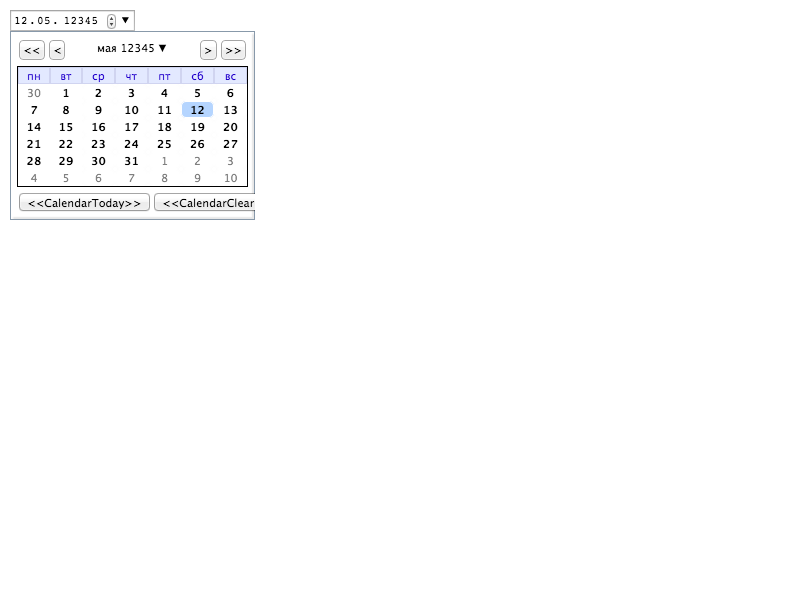
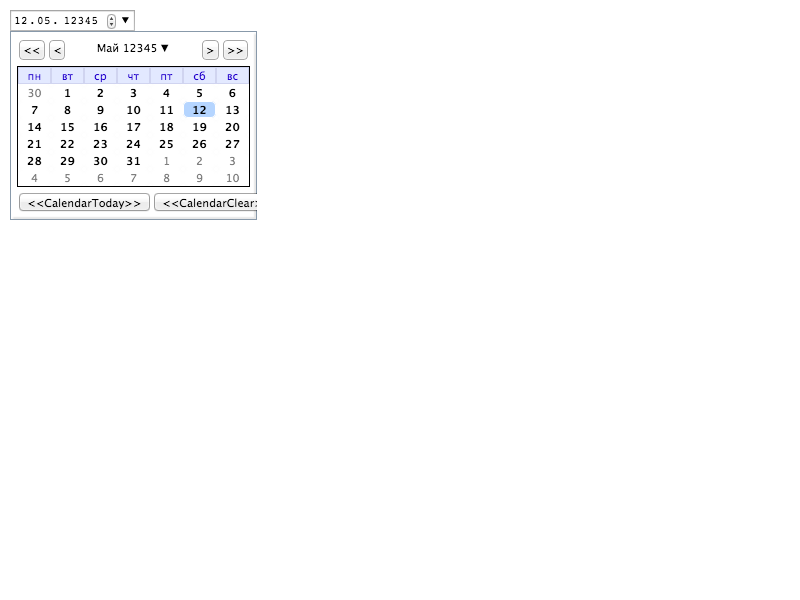
Support stand-alone month names in calendar picker https://bugs.webkit.org/show_bug.cgi?id=102196
Reviewed by Kentaro Hara.

.:

* ManualTests/forms/calendar-picker.html:
- Remove monthLabels arguments.
- Add a mock implementation of pagePopupController.formatMonth.

Source/WebCore:

We have showed non stand-alone month names in any locales. However
we should show stand-alone month names in some locales such as
Russian.

This patch introduce PagePopupController::formatMonth. It is
exposed to page-popups, and format year-month pairs in the same
way as input[type=month].

No new tests. Affects platform/chromium/fast/forms/calendar-picker/calendar-picker-appearance-ru.html.

* Resources/pagepopups/calendarPicker.js:
(Month.prototype.toLocaleString):
Calls pagePopupController.formatMonth except Japanese locale.
(handleArgumentsTimeout):
Remove unnecessary default monthLabels.
* page/PagePopupController.cpp:
(WebCore::PagePopupController::formatMonth): Added.
* page/PagePopupController.h:
(PagePopupController): Declare formatMonth.
* page/PagePopupController.idl: Add formatMonth.

Source/WebKit/chromium:

* src/DateTimeChooserImpl.cpp:
(WebKit::DateTimeChooserImpl::writeDocument):
We don't need to pass monthLabels any more.

LayoutTests:

Update a pixel result for Russian calendar picker. Now it contains
a stand-alone month name.

* platform/chromium-mac/platform/chromium/fast/forms/calendar-picker/calendar-picker-appearance-ru-expected.png:

git-svn-id: https://svn.webkit.org/repository/webkit/trunk@134753 268f45cc-cd09-0410-ab3c-d52691b4dbfc

diff --git a/ManualTests/forms/calendar-picker.html b/ManualTests/forms/calendar-picker.html
@@ -40,8 +40,6 @@ iframe {
 <script>
 var englishArguments = {
     locale: 'en-US',
-    monthLabels : ['January', 'February', 'March', 'April', 'May', 'June',
-    'July', 'August', 'September', 'October', 'November', 'December'],
     dayLabels : ['Sun', 'Mon', 'Tue', 'Wed', 'Thu', 'Fri', 'Sat'],
     todayLabel : 'Today',
     clearLabel : 'Clear',
@@ -53,8 +51,6 @@ var englishArguments = {
 };
 var japaneseArguments = {
     locale: 'ja-JP',
-    monthLabels : ['1月', '2月', '3月', '4月', '5月', '6月',
-    '7月', '8月', '9月', '10月', '11月', '12月'],
     dayLabels : ['日', '月', '火', '水', '木', '金', '土'],
     todayLabel : '今日',
     clearLabel : 'クリア',
@@ -68,8 +64,6 @@ var arabicArguments = {
     locale: 'ar',
     isRTL: false,
     isCalendarRTL: true,
-    monthLabels : ['يناير', 'فبراير', 'مارس', 'أبريل', 'مايو', 'يونيو',
-                   'يوليو', 'أغسطس', 'سبتمبر', 'أكتوبر', 'نوفمبر', 'ديسمبر'],
     dayLabels : ['ح', 'ن', 'ث', 'ر', 'خ', 'ج', 'س'],
     todayLabel : 'اليوم',
     clearLabel : 'مسح',
@@ -80,8 +74,6 @@ var arabicArguments = {
 };
 var datalistArguments = {
     locale: 'en-US',
-    monthLabels : ['January', 'February', 'March', 'April', 'May', 'June',
-    'July', 'August', 'September', 'October', 'November', 'December'],
     dayLabels : ['Sun', 'Mon', 'Tue', 'Wed', 'Thu', 'Fri', 'Sat'],
     todayLabel : 'Today',
     clearLabel : 'Clear',
@@ -101,8 +93,6 @@ var datalistArguments = {
 };
 var longDatalistArguments = {
     locale: 'en-US',
-    monthLabels : ['January', 'February', 'March', 'April', 'May', 'June',
-    'July', 'August', 'September', 'October', 'November', 'December'],
     dayLabels : ['Sun', 'Mon', 'Tue', 'Wed', 'Thu', 'Fri', 'Sat'],
     todayLabel : 'Today',
     clearLabel : 'Clear',
@@ -162,8 +152,6 @@ var arabicDatalistArguments = {
     locale: 'ar',
     isRTL: true,
     isCalendarRTL: true,
-    monthLabels : ['يناير', 'فبراير', 'مارس', 'أبريل', 'مايو', 'يونيو',
-                   'يوليو', 'أغسطس', 'سبتمبر', 'أكتوبر', 'نوفمبر', 'ديسمبر'],
     dayLabels : ['ح', 'ن', 'ث', 'ر', 'خ', 'ج', 'س'],
     todayLabel : 'اليوم',
     clearLabel : 'مسح',
@@ -185,8 +173,6 @@ var arabicLongDatalistArguments = {
     locale: 'ar',
     isRTL: true,
     isCalendarRTL: true,
-    monthLabels : ['يناير', 'فبراير', 'مارس', 'أبريل', 'مايو', 'يونيو',
-                   'يوليو', 'أغسطس', 'سبتمبر', 'أكتوبر', 'نوفمبر', 'ديسمبر'],
     dayLabels : ['ح', 'ن', 'ث', 'ر', 'خ', 'ج', 'س'],
     todayLabel : 'اليوم',
     clearLabel : 'مسح',
@@ -242,8 +228,6 @@ var arabicLongDatalistArguments = {
 };
 var weekArguments = {
     locale: 'en-US',
-    monthLabels : ['January', 'February', 'March', 'April', 'May', 'June',
-    'July', 'August', 'September', 'October', 'November', 'December'],
     dayLabels : ['Sun', 'Mon', 'Tue', 'Wed', 'Thu', 'Fri', 'Sat'],
     todayLabel : 'This Week',
     clearLabel : 'Clear',
@@ -258,8 +242,6 @@ var weekArguments = {
 };
 var monthArguments = {
     locale: 'en-US',
-    monthLabels : ['January', 'February', 'March', 'April', 'May', 'June',
-    'July', 'August', 'September', 'October', 'November', 'December'],
     dayLabels : ['Sun', 'Mon', 'Tue', 'Wed', 'Thu', 'Fri', 'Sat'],
     todayLabel : 'This Month',
     clearLabel : 'Clear',
@@ -308,6 +290,11 @@ function openCalendar(args) {
             if (typeof numString == "number")
                 return numString.toLocaleString();
             return numString.toString();
+        },
+        formatMonth: function(year, zeroBaseMonth) {
+            var monthLabels = ['<January>', '<February>', '<March>', '<April>', '<May>', '<June>',
+                               '<July>', '<August>', '<September>', '<October>', '<November>', '<December>'];
+            return monthLabels[zeroBaseMonth] + " " + year;
         }
     }
 

diff --git a/Source/WebCore/Resources/pagepopups/calendarPicker.js b/Source/WebCore/Resources/pagepopups/calendarPicker.js
@@ -149,34 +149,9 @@ function formatJapaneseImperialEra(year, month) {
 Month.prototype.toLocaleString = function() {
     if (isNaN(this.year) || isNaN(this.year))
         return "Invalid Month";
-    var yearString = localizeNumber(this.year);
-    var monthString = global.params.monthLabels[this.month];
-    switch (getLanguage()) {
-    case "eu":
-    case "fil":
-    case "lt":
-    case "ml":
-    case "mt":
-    case "tl":
-    case "ur":
-        return yearString + " " + monthString;
-    case "hu":
-        return yearString + ". " + monthString;
-    case "ja":
-        return yearString + "年" + formatJapaneseImperialEra(this.year, this.month) + " " + monthString;
-    case "zh":
-        return yearString + "年" + monthString;
-    case "ko":
-        return yearString + "년 " + monthString;
-    case "lv":
-        return yearString + ". g. " + monthString;
-    case "pt":
-        return monthString + " de " + yearString;
-    case "sr":
-        return monthString + ". " + yearString;
-    default:
-        return monthString + " " + yearString;
-    }
+    if (getLanguage() == "ja")
+        return "" + this.year + "年" + formatJapaneseImperialEra(this.year, this.month) + " " + (this.month + 1) + "月";
+    return window.pagePopupController.formatMonth(this.year, this.month);
 };
 
 function createUTCDate(year, month, date) {
@@ -605,8 +580,6 @@ function handleArgumentsTimeout() {
     if (global.argumentsReceived)
         return;
     var args = {
-        monthLabels : ["m1", "m2", "m3", "m4", "m5", "m6",
-                       "m7", "m8", "m9", "m10", "m11", "m12"],
         dayLabels : ["d1", "d2", "d3", "d4", "d5", "d6", "d7"],
         todayLabel : "Today",
         clearLabel : "Clear",
@@ -624,10 +597,6 @@ function handleArgumentsTimeout() {
  * @return {?string} An error message, or null if the argument has no errors.
  */
 CalendarPicker.validateConfig = function(config) {
-    if (!config.monthLabels)
-        return "No monthLabels.";
-    if (config.monthLabels.length != 12)
-        return "monthLabels is not an array with 12 elements.";
     if (!config.dayLabels)
         return "No dayLabels.";
     if (config.dayLabels.length != 7)

diff --git a/Source/WebKit/chromium/src/DateTimeChooserImpl.cpp b/Source/WebKit/chromium/src/DateTimeChooserImpl.cpp
@@ -149,7 +149,6 @@ void DateTimeChooserImpl::writeDocument(WebCore::DocumentWriter& writer)
     addProperty("clearLabel", Platform::current()->queryLocalizedString(WebLocalizedString::CalendarClear), writer);
     addProperty("weekLabel", Platform::current()->queryLocalizedString(WebLocalizedString::WeekNumberLabel), writer);
     addProperty("weekStartDay", m_locale->firstDayOfWeek(), writer);
-    addProperty("monthLabels", m_locale->monthLabels(), writer);
     addProperty("dayLabels", m_locale->weekDayShortLabels(), writer);
     addProperty("isCalendarRTL", m_locale->isRTL(), writer);
     addProperty("isRTL", m_parameters.isAnchorElementRTL, writer);

diff --git a/Source/WebCore/page/PagePopupController.cpp b/Source/WebCore/page/PagePopupController.cpp
@@ -61,6 +61,17 @@ String PagePopupController::localizeNumberString(const String& numberString)
     return numberString;
 }
 
+#if ENABLE(CALENDAR_PICKER)
+String PagePopupController::formatMonth(int year, int zeroBaseMonth)
+{
+    if (!m_popupClient)
+        return emptyString();
+    DateComponents date;
+    date.setMonthsSinceEpoch((year - 1970) * 12.0 + zeroBaseMonth);
+    return m_popupClient->locale().formatDateTime(date);
+}
+#endif
+
 void PagePopupController::clearPagePopupClient()
 {
     m_popupClient = 0;

diff --git a/Source/WebCore/page/PagePopupController.h b/Source/WebCore/page/PagePopupController.h
@@ -45,6 +45,9 @@ public:
     static PassRefPtr<PagePopupController> create(PagePopupClient*);
     void setValueAndClosePopup(int numValue, const String& stringValue);
     String localizeNumberString(const String&);
+#if ENABLE(CALENDAR_PICKER)
+    String formatMonth(int year, int zeroBaseMonth);
+#endif
     void clearPagePopupClient();
 
 private:
